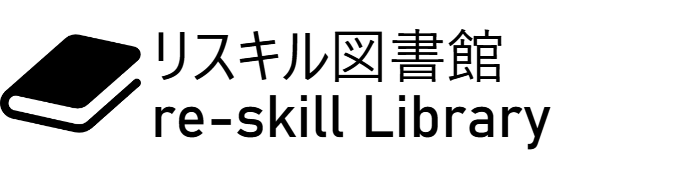
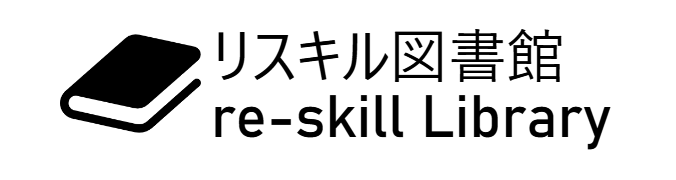
アイコンをちょっと編集しました＆地図を少しだけ上に上げました

Changed region(s): [[0.0, 0.1667, 0.9009, 0.8333]]

diff --git a/src/main/resources/templates/main.html b/src/main/resources/templates/main.html
@@ -346,13 +346,15 @@ setInterval(() => {
 
 		<br><br><br><br>
 		<div style="border: rgb(0, 128, 128) solid 6px; border-radius:15px; font-size: 100%; padding: 15px;" id="access">
-			<h1>アクセス</h1>
+			<h3>アクセス</h3>
 			<br>
+			<div style="transform: translate(0%,-7%);">
 			<iframe
 				src="https://www.google.com/maps/embed?pb=!1m18!1m12!1m3!1d330.92145468335735!2d139.69616124064817!3d35.68870417657408!2m3!1f0!2f0!3f0!3m2!1i1024!2i768!4f13.1!3m3!1m2!1s0x60188d636d9ac9c7%3A0xca3f06d8fe03ab0f!2z44OT44K444On44Oz44K744Oz44K_44O86KW_5paw5a6_!5e0!3m2!1sja!2sjp!4v1718592694747!5m2!1sja!2sjp"
 				width="600" height="400" style="border:0;" allowfullscreen="" loading="lazy"
 				referrerpolicy="no-referrer-when-downgrade"></iframe>
 				<br><span>〒160-0023 東京都新宿区西新宿１丁目２２−２ 新宿サンエービル 7F</span>
+			</div>
 		</div>
 
 
